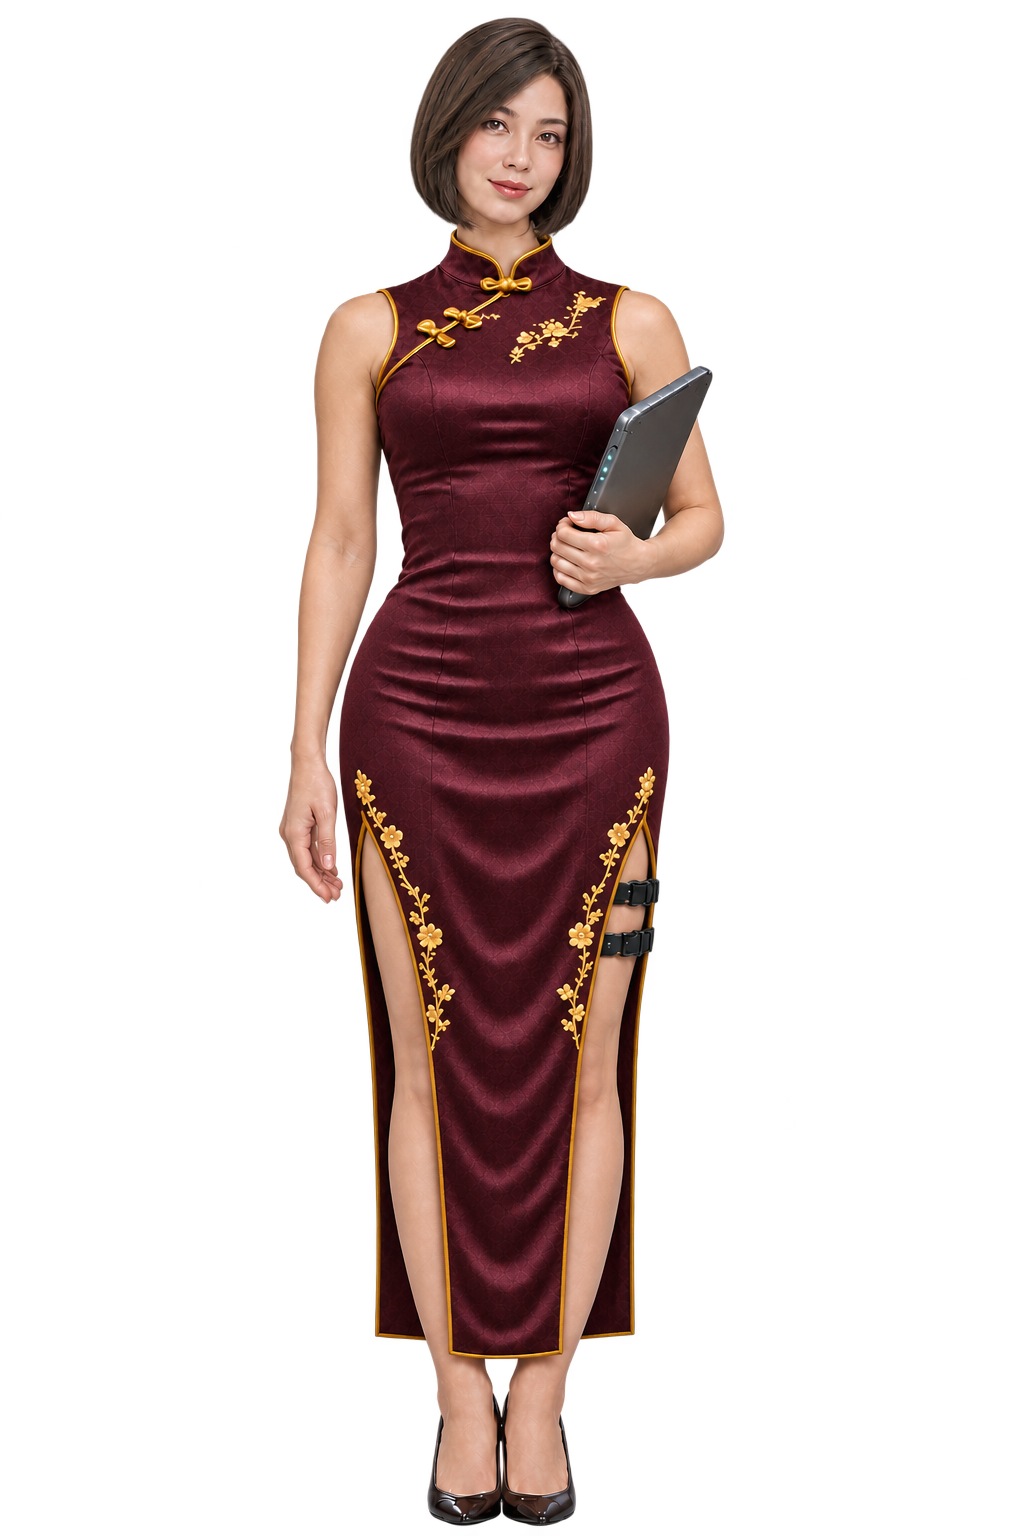
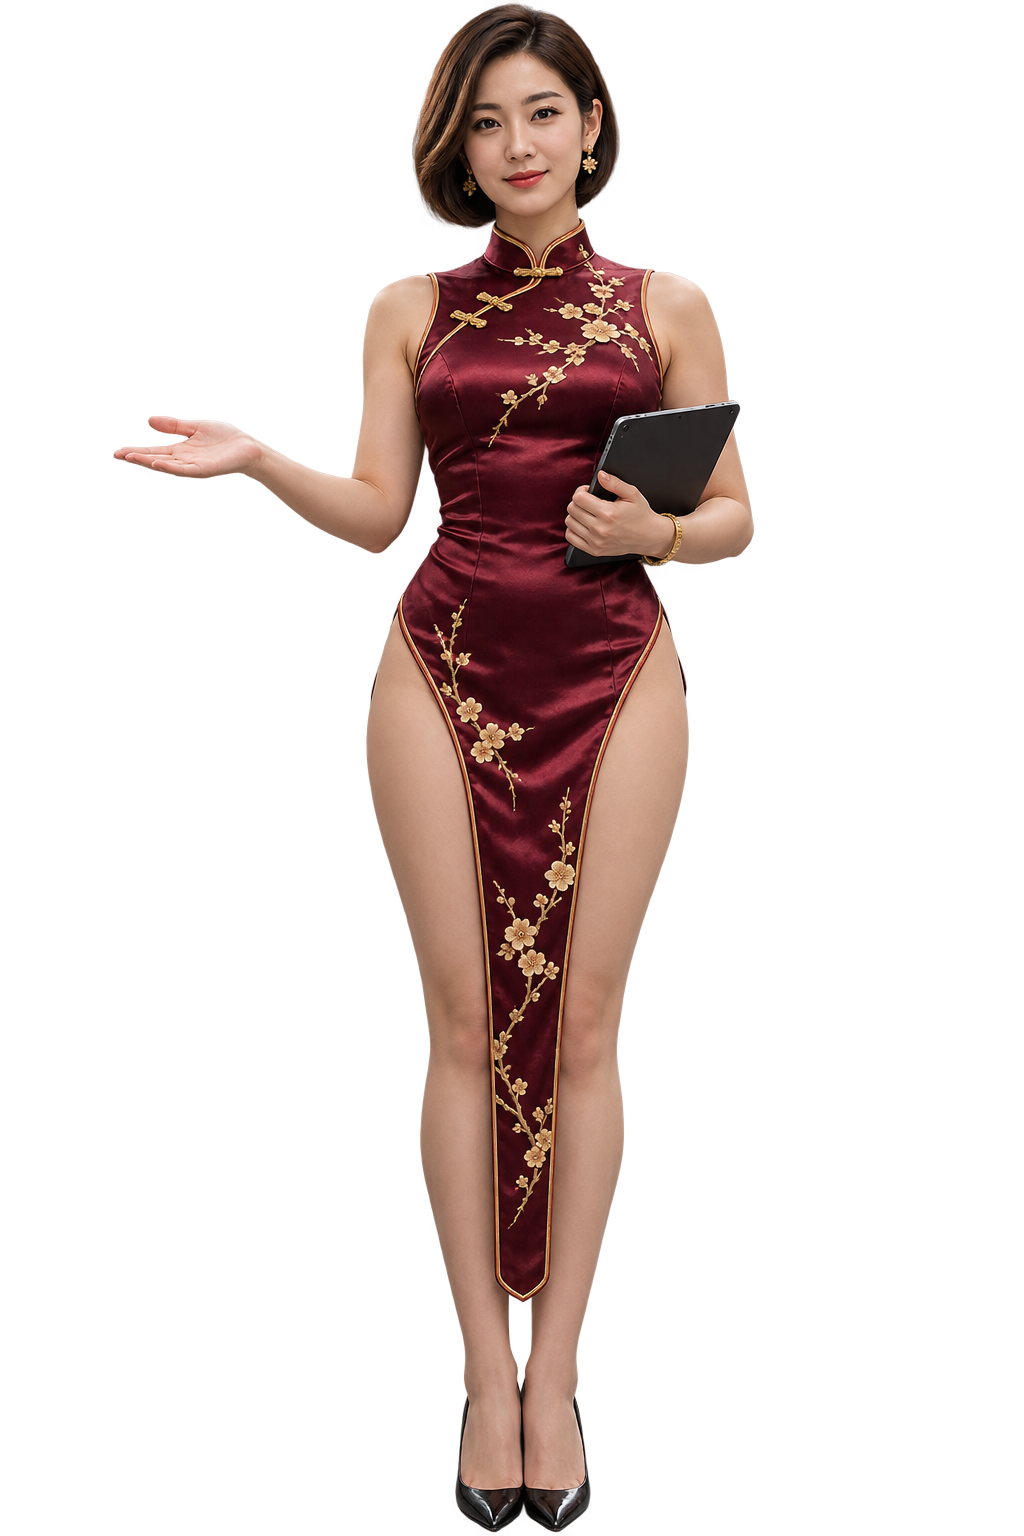
Adopt approved Ling broker artwork across trade encounters

Changed region(s): [[0.0938, 0.0, 0.75, 1.0]]

diff --git a/apps/control-room/src/LobbyStaff.tsx b/apps/control-room/src/LobbyStaff.tsx
@@ -4,7 +4,7 @@ import type {Locale} from './navigation';
 import {facilityLobbies,type LobbyCopy} from './facility-lobby-content';
 import {CrewEncounter} from './CrewEncounter';
 import seniorClose from '../../../docs/cinematics/guide-close-dialogue-20261117/assets/senior-trade-officer-close.png';
-import lingClose from '../../../docs/cinematics/guide-close-dialogue-20261117/assets/ling-broker-close.png';
+import lingBroker from './assets/facility-staff/ling-broker.png';
 import professorClose from '../../../docs/cinematics/guide-close-dialogue-20261117/assets/academic-advisor-close.png';
 import './lobby-staff.css';
 
@@ -12,14 +12,14 @@ type Staff={id:string;name:LobbyCopy;role:LobbyCopy;intro:LobbyCopy;image:string
 const staff:Record<DivisionFacility,readonly Staff[]>={
  trade:[
   {id:'senior-trade-officer',scope:'intrasystem',name:['수석 무역관','Senior trade officer'],role:['행성계 내부 무역','In-system trade'],intro:['같은 행성계 안에서 거래처와 이동 동선을 살피는 일을 맡고 있습니다. 함선과 가용 자본에 맞는 거래를 함께 검토하겠습니다.','I focus on trading locations and routes within a single star system. Together we will assess trades suited to your ship and available capital.'],image:new URL('./assets/facility-staff/senior-trade-officer.png',import.meta.url).href,x:55,room:'planning',action:['무역 계획하기','Plan a trade']},
-  {id:'ling-broker',scope:'interstellar',name:['링 가문 중개인','Ling family broker'],role:['행성계 간 무역','Interstellar trade'],intro:['행성계를 오가는 거래를 맡고 있어요. 출발지와 목적지뿐 아니라 이동 구간과 자금 계획까지 함께 살펴보죠. 위험도와 합법성은 각각 선택하는 기준이에요.','I handle trades between star systems. Let’s consider the journey and your budget alongside the origin and destination. Risk and legality are separate choices.'],image:new URL('./assets/facility-staff/ling-broker.png',import.meta.url).href,x:67,room:'planning',action:['무역 계획하기','Plan a trade']},
+  {id:'ling-broker',scope:'interstellar',name:['링 가문 중개인','Ling family broker'],role:['행성계 간 무역','Interstellar trade'],intro:['행성계를 오가는 거래를 맡고 있어요. 출발지와 목적지뿐 아니라 이동 구간과 자금 계획까지 함께 살펴보죠. 위험도와 합법성은 각각 선택하는 기준이에요.','I handle trades between star systems. Let’s consider the journey and your budget alongside the origin and destination. Risk and legality are separate choices.'],image:lingBroker,x:67,room:'planning',action:['무역 계획하기','Plan a trade']},
  ],
  'guide-center':[
   {id:'academic-advisor',name:['지도 교수','Academic advisor'],role:['운송 교육 · 실전 노하우','Freight education · Practical guidance'],intro:['미션을 어떻게 조합하고 어떤 순서로 운송할지 함께 살펴볼게요. 초반 평판을 쌓는 방법부터 경로 설계와 실제 운송 사례까지 차근차근 다룹니다.','We’ll explore which missions work together and how to order your deliveries, from building early reputation to route planning and real freight case studies.'],image:new URL('./assets/facility-staff/academic-advisor.png',import.meta.url).href,x:63,room:'education',action:['교육실 둘러보기','Explore education']},
  ],
 };
 
-const portraits:Record<string,string>={'senior-trade-officer':seniorClose,'ling-broker':lingClose,'academic-advisor':professorClose};
+const portraits:Record<string,string>={'senior-trade-officer':seniorClose,'ling-broker':lingBroker,'academic-advisor':professorClose};
 
 // Room and scope still use the existing facility entry controller. Meeting a
 // staff member never selects a flight partner or edits a plan or stored run.

diff --git a/apps/control-room/review/trade-lobby/preview.tsx b/apps/control-room/review/trade-lobby/preview.tsx
@@ -3,9 +3,8 @@ import {createRoot} from 'react-dom/client';
 import {CrewEncounter} from '../../src/CrewEncounter';
 import background from './lobby-master.png';
 import officer from './officer-lobby.webp';
-import broker from './broker-lobby.webp';
+import broker from '../../src/assets/facility-staff/ling-broker.png';
 import officerClose from '../../../../docs/cinematics/guide-close-dialogue-20261117/assets/senior-trade-officer-close.png';
-import brokerClose from '../../../../docs/cinematics/guide-close-dialogue-20261117/assets/ling-broker-close.png';
 import prices from './prices.webp';
 import records from './records.webp';
 import './preview.css';
@@ -16,7 +15,7 @@ const rooms = {
 };
 const partners = {
  officer:{name:'수석 무역관',image:officer,portrait:officerClose,x:56.5,line:'같은 행성계 안의 거래처를 살펴보겠습니다. 함선과 가용 자본에 맞춰 이동 경로를 함께 검토하시죠.',scope:'행성계 내부'},
- broker:{name:'링 가문 중개인',image:broker,portrait:brokerClose,x:63.8,line:'행성계를 오가는 거래를 맡고 있어요. 출발지부터 목적지까지, 자금과 이동 계획을 함께 살펴보죠.',scope:'행성계 간'}
+ broker:{name:'링 가문 중개인',image:broker,portrait:broker,x:63.8,line:'행성계를 오가는 거래를 맡고 있어요. 출발지부터 목적지까지, 자금과 이동 계획을 함께 살펴보죠.',scope:'행성계 간'}
 };
 type Room=keyof typeof rooms;
 type Person=keyof typeof partners;
@@ -65,7 +64,7 @@ function Lobby(){
    <div ref={power} className="power" aria-hidden="true">STAM</div>
   </div>
   {screen==='lobby'&&!person&&<aside><button className="quick-toggle" aria-expanded={quick} onClick={()=>setQuick(!quick)}>☰　빠른 이동</button>{quick&&(Object.keys(rooms) as Room[]).map(key=><button key={key} onClick={e=>enter(key,e.currentTarget,true)}>{rooms[key].name}</button>)}</aside>}
-  {person&&source.current&&<CrewEncounter id={person} name={partners[person].name} image={partners[person].portrait} background={background} focus={partners[person].x} line={partners[person].line} en={false} motion={!reduced()} origin={source.current} onClose={()=>setPerson(null)} actions={[{label:partners[person].scope+' 경로 계획',onSelect:()=>{setScope(partners[person].scope);setScreen('plan');requestAnimationFrame(()=>back.current?.focus());}}]}/>}
+  {person&&source.current&&<CrewEncounter id={person==='broker'?'ling-broker':person} name={partners[person].name} image={partners[person].portrait} background={background} focus={partners[person].x} line={partners[person].line} en={false} motion={!reduced()} origin={source.current} onClose={()=>setPerson(null)} actions={[{label:partners[person].scope+' 경로 계획',onSelect:()=>{setScope(partners[person].scope);setScreen('plan');requestAnimationFrame(()=>back.current?.focus());}}]}/>}
  </main>;
 }
 createRoot(document.getElementById('root')!).render(<Lobby/>);

diff --git a/apps/control-room/src/partner-conversation.css b/apps/control-room/src/partner-conversation.css
@@ -22,6 +22,7 @@
 .crew-encounter-shade{background:linear-gradient(90deg,#020b1226 20%,#020b1266 56%,#020b12bf),linear-gradient(0deg,#020b1299,transparent 30%)}
 .crew-encounter-person{position:absolute;left:31%;top:2.5%;height:110%;aspect-ratio:2/3;transform:translateX(-50%) translate(var(--crew-start-x,0px),var(--crew-start-y,0px)) scale(var(--crew-start-scale,.2));transform-origin:50% 17%;opacity:0;transition:transform 780ms cubic-bezier(.18,.7,.18,1),opacity 260ms ease;pointer-events:none;will-change:transform}
 .crew-encounter-person img{display:block;width:100%;height:100%;object-fit:contain;object-position:top center}
+.crew-encounter[data-partner="ling-broker"] .crew-encounter-person img{transform:scale(1.9);transform-origin:50% 0}
 /* Navigator eyes sit at 14.3% of his source, operator at 17%. Shift the
    entire asset, without stretching it, to share the same conversation eye line. */
 .crew-encounter[data-partner=navigator] .crew-encounter-person{top:5.47%;transform-origin:50% 14.3%}

diff --git a/docs/cinematics/trade-lobby-two-doors/HANDOFF.md b/docs/cinematics/trade-lobby-two-doors/HANDOFF.md
@@ -4,7 +4,7 @@
 
 [로비 전경](review/lobby.png) · [무역관제실 강조](review/control-focus.png) · [거래기록실 강조](review/records-focus.png) · [진입과 복귀 MP4](review/control-roundtrip.mp4)
 
-새 원본에는 상담 직원과 방문객, 금속 난간 뒤에서 대화하는 정장·칵테일드레스 차림의 방문객, 관제실 근무자가 포함돼 있다. 수석 무역관과 링 가문 중개인은 상담대 앞의 독립된 선택 영역에 로비 전용 전신 자산을 배치한다. 수석 무역관은 태블릿을 든 채 고개를 돌리고, 링 가문 중개인은 한 손으로 상담 방향을 안내한다. 중개인 전신은 이전 전신 참조 없이 새로 생성한 의상 시안이다. 기존 근접 대화 초상과 얼굴 일치 여부는 승인 단계에서 확인한다. 두 전신 자산은 각각 officer-lobby.webp와 broker-lobby.webp에 있다.
+새 원본에는 상담 직원과 방문객, 금속 난간 뒤에서 대화하는 정장·칵테일드레스 차림의 방문객, 관제실 근무자가 포함돼 있다. 수석 무역관과 링 가문 중개인은 상담대 앞의 독립된 선택 영역에 로비 전용 전신 자산을 배치한다. 수석 무역관은 태블릿을 든 채 고개를 돌리고, 링 가문 중개인은 한 손으로 상담 방향을 안내한다. 링 가문 중개인의 공식 전신은 `apps/control-room/src/assets/facility-staff/ling-broker.png`로 확정했다. 로비·무역 계획·무역 가이드가 이 원본을 사용하고, 근접 대화는 같은 원본의 상반신을 확대한다. 수석 무역관의 로비 자세는 `officer-lobby.webp`에 있다.
 
 ## 승인 후 기능 연결
 

diff --git a/docs/trade-partners-20261116/README.md b/docs/trade-partners-20261116/README.md
@@ -1,6 +1,10 @@
 # 무역 파트너 자산 — 2026-11-16
 
-## 최신 로비 적용
+## 2026-11-18 링 가문 중개인 공식 외형
+
+로비와 근접 대화에는 [현재 승인된 전신](../../apps/control-room/src/assets/facility-staff/ling-broker.png)을 사용한다. 아래에는 11월 16일 제작 당시의 승인 이력을 보관한다.
+
+## 2026-11-16 로비 적용
 
 **수석 교역관**(행성계 내부)과 **링 가문 중개인**(행성계 간)을 로비에 배치했다. 여성 승인본과 노신사 다리 간격 수정 후 명칭 확정·진행한 후보를 사용했으며 원본을 변환하지 않았다. 소개 및 교역 계획실 소개 연결까지이고 실제 파트너 선택·교역 계산은 후속이다. [실제 화면과 검증](../facility-lobbies-20261116/staff-review/report.json). 커밋·푸시·배포 없음. 아래는 제작 당시 기록이다.
 

diff --git a/PROJECT_STATUS.md b/PROJECT_STATUS.md
@@ -1,3 +1,7 @@
+## 2026-11-18 링 가문 중개인 외형 확정
+
+사용자가 승인한 버건디 드레스 전신을 무역센터 중개인의 공용 원본으로 지정했다. 로비와 근접 대화에서 같은 얼굴을 사용한다.
+
 ## 2026-11-18 무역센터 새 로비 전경 시안
 
 상담대 응대와 위층 대기 승객이 보이는 새 로비 원본, 파트너의 상담 자세와 출입 연출을 별도 검토 화면에 담았다. 시안 승인 뒤 실제 기능 경로를 연결한다. 검토 결과와 연결 지점은 [로비 인계 문서](docs/cinematics/trade-lobby-two-doors/HANDOFF.md)에 있다.
